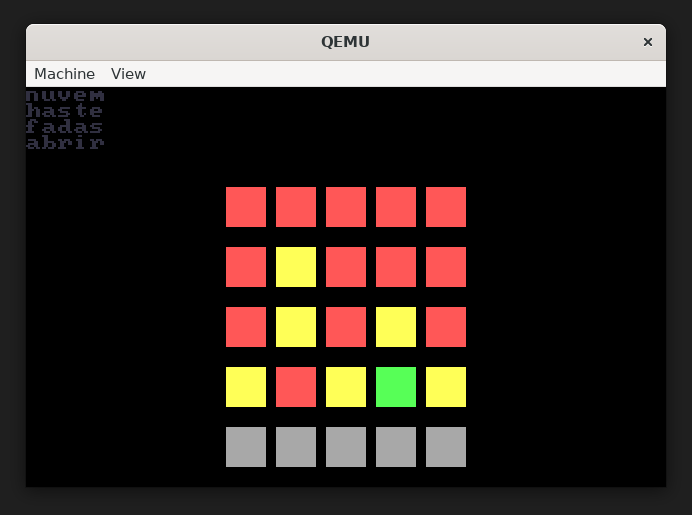
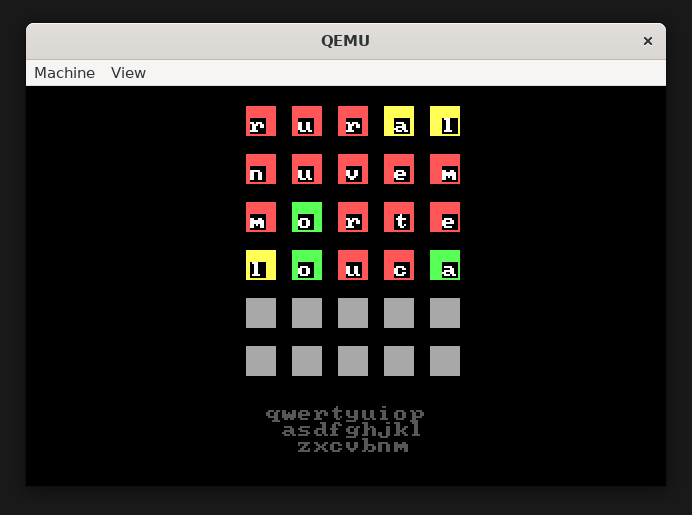
alterado readme

Changed region(s): [[0.3035, 0.1864, 0.698, 0.932], [0.0303, 0.0311, 0.9408, 0.3107]]

diff --git a/README.md b/README.md
@@ -12,15 +12,16 @@ Este é um jogo de Wordle feito em assembly x86. O código foi refatorado tomand
   - [x] Menu inicial
   - [x] Errou a palavra
   - [x] Acertou a palavra
-- [ ] **Quadrados**
+- [x] **Quadrados**
   - [x] Desenhar quadrado na tela na cor desejada (verde)
   - [x] Desenhar quadrado na tela na cor desejada (vermelho)
   - [x] Desenhar quadrado na tela na cor desejada (amarelo)
   - [x] Desenhar quadrado específico no local correto
-  - [ ] Colocar as letras nos respectivos quadrados ([issue #7](https://github.com/nathaliafab/WordleX86/issues/7))
+  - [x] Colocar as letras nos respectivos quadrados
 - [ ] **Palavras**
   - [x] Pegar tentativa do usuário
   - [x] Checar se a tentativa é correta ou não
+  - [ ] Mostrar alfabeto e atualizar letras já usadas ([issue #11](https://github.com/nathaliafab/WordleX86/issues/11))
   - [x] Criar/Importar um dataset de palavras para o jogo
     - [x] Escolher aleatoriamente uma dessas palavras para cada rodada
   - [ ] Expandir para Dordle
@@ -49,9 +50,8 @@ Para jogar, siga os passos abaixo:
 
 ### 📜 Instruções
 Basta pressionar **Enter** para iniciar o jogo.
-O jogo apresentará uma palavra aleatória, e o jogador terá que tentar adivinhar a palavra em até cinco tentativas. Para isso, o jogador deve digitar uma palavra de cinco letras e pressionar **Enter**. O jogo irá informar quais letras da palavra escolhida estão corretas e quais estão incorretas. O jogador deve continuar tentando até acertar a palavra completa ou atingir o limite de tentativas.
+O jogo apresentará uma palavra aleatória, e o jogador terá que tentar adivinhar a palavra em até seis tentativas. Para isso, o jogador deve digitar uma palavra de cinco letras e pressionar **Enter**. O jogo irá informar quais letras da palavra escolhida estão corretas e quais estão incorretas. O jogador deve continuar tentando até acertar a palavra completa ou atingir o limite de tentativas.
 
-- Após cada jogada, o jogo irá informar quantas tentativas restantes o jogador possui.
 - Caso o jogador acerte a palavra antes do limite de tentativas, o jogo irá parabenizá-lo e perguntar se ele deseja jogar novamente.
 - Caso contrário, o jogo informará a palavra correta e perguntará se o jogador deseja jogar novamente.
 
